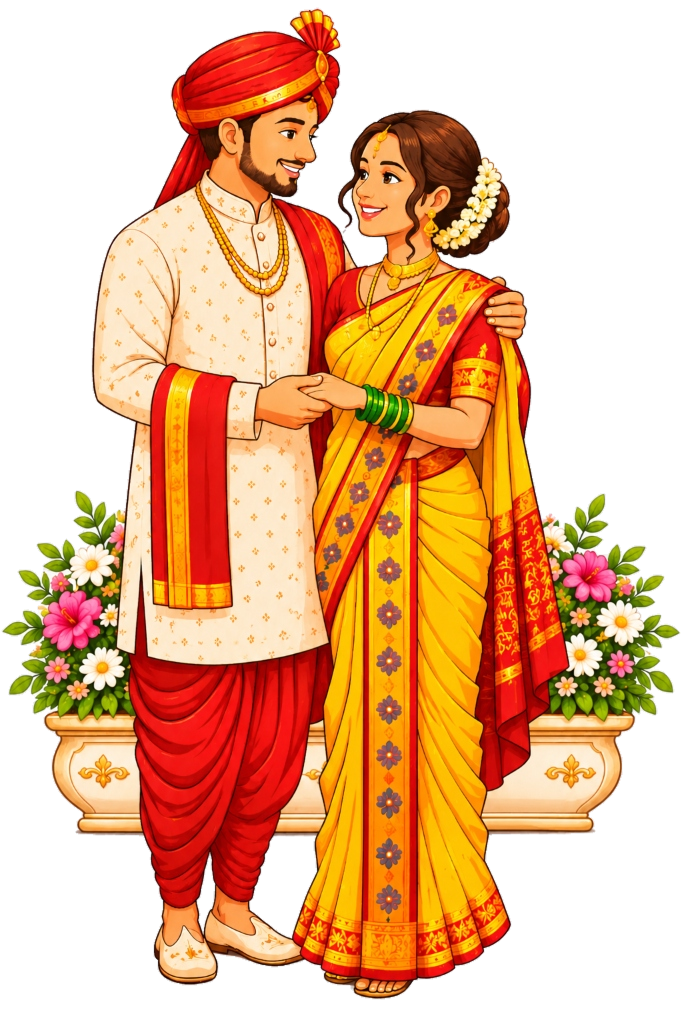
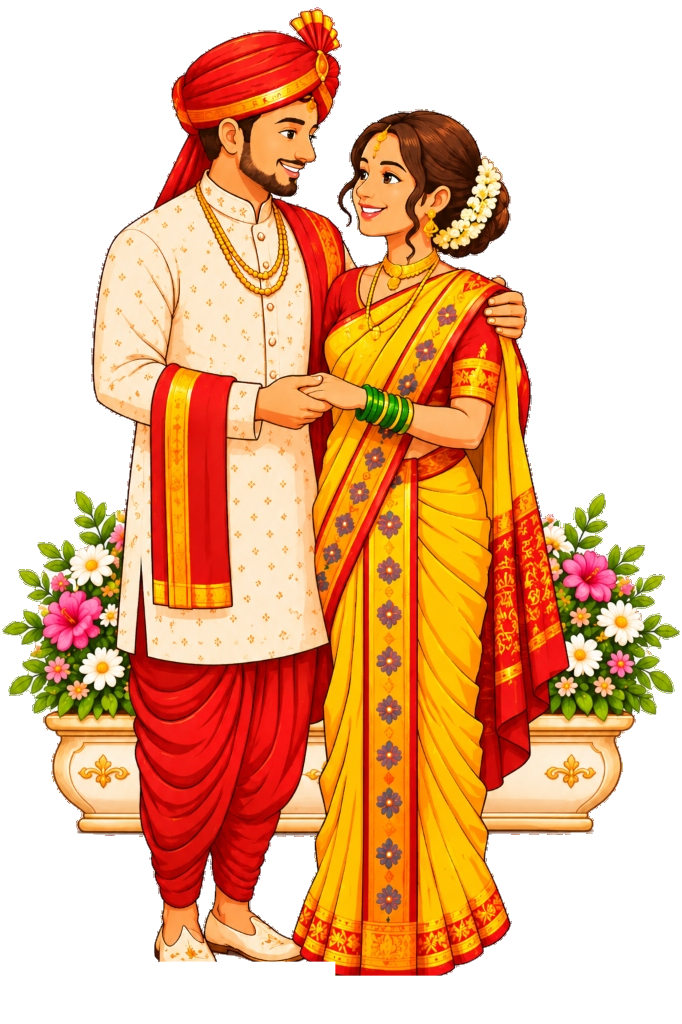
optimize

diff --git a/css/style.css b/css/style.css
@@ -100,7 +100,7 @@ button { cursor: pointer; border: none; background: none; font-family: var(--ser
 
 .couple-card { width: clamp(260px, 70cqw, 350px); max-height: clamp(330px, 50vh, 450px); margin: 0 auto; display: flex; justify-content: center; align-items: center; flex-shrink: 1; position: relative; }
 .couple-card picture { display: contents; }
-.couple-art { width: auto; max-width: 100%; max-height: clamp(330px, 50vh, 450px); height: auto; object-fit: contain; display: block; filter: drop-shadow(0 10px 24px rgba(36, 21, 13, 0.2)); -webkit-mask-image: linear-gradient(to bottom, #000 0%, #000 90%, rgba(0, 0, 0, 0.75) 95%, rgba(0, 0, 0, 0.25) 98%, transparent 100%); mask-image: linear-gradient(to bottom, #000 0%, #000 90%, rgba(0, 0, 0, 0.75) 95%, rgba(0, 0, 0, 0.25) 98%, transparent 100%); }
+.couple-art { width: auto; max-width: 100%; max-height: clamp(330px, 50vh, 450px); height: auto; object-fit: contain; display: block; filter: none; -webkit-mask-image: none; mask-image: none; }
 
 .enter-ceremony-btn { position: absolute; bottom: clamp(2.8rem, 8.5vh, 4.2rem); left: 50%; transform: translateX(-50%); display: inline-flex; align-items: center; justify-content: center; text-align: center; line-height: 1; padding: 0.65rem 1.95rem 0.60rem; background: linear-gradient(135deg, rgba(255, 252, 247, 0.96) 0%, rgba(248, 239, 224, 0.92) 100%); backdrop-filter: blur(10px); -webkit-backdrop-filter: blur(10px); border: 1.5px solid #C9A048; border-radius: 999px; box-shadow: 0 4px 18px rgba(124, 88, 26, 0.22), 0 0 0 1px rgba(255, 255, 255, 0.75) inset; color: #631622; font-family: 'Noto Serif Devanagari', 'Yatra One', var(--deva); font-size: clamp(0.94rem, 3.4cqw, 1.10rem); font-weight: 700; letter-spacing: 0.03em; text-transform: none; cursor: pointer; z-index: 50; pointer-events: auto !important; white-space: nowrap; animation: enterBtnPulse 2.8s ease-in-out infinite; transition: transform 0.25s ease, background 0.25s ease, box-shadow 0.25s ease, border-color 0.25s ease, color 0.25s ease; text-shadow: 0 1px 1px rgba(255, 255, 255, 0.9); }
 .enter-btn-text { display: inline-flex; align-items: center; justify-content: center; text-align: center; line-height: 1; transform: translateY(2.5px); }
@@ -138,7 +138,8 @@ button { cursor: pointer; border: none; background: none; font-family: var(--ser
 .eyebrow { font-size: clamp(.78rem, 3.0cqw, .92rem); letter-spacing: .24em; text-transform: uppercase; color: #9C7330; font-weight: 600; text-shadow: 0 1px 1px rgba(255, 255, 255, 0.95); }
 .eyebrow.devanagari { font-family: 'Noto Serif Devanagari', var(--deva); font-size: clamp(0.95rem, 3.4cqw, 1.12rem); letter-spacing: 0.03em; text-transform: none; font-weight: 700; color: #966D26; }
 .hero-eyebrow { font-family: var(--cinzel); font-size: clamp(.80rem, 3.3cqw, 1.00rem); letter-spacing: .18em; text-transform: uppercase; color: #966D26; font-weight: 600; line-height: 1.5; text-shadow: 0 1px 1px rgba(255, 255, 255, 0.95); margin: 0.05rem 0 0.35rem; }
-.hero-eyebrow.devanagari { font-family: 'Noto Serif Devanagari', var(--deva); font-size: clamp(1.10rem, 4.2cqw, 1.35rem); letter-spacing: 0.04em; text-transform: none; font-weight: 600; color: #8A5E1E; margin-bottom: 0.5rem; }
+.hero-eyebrow.devanagari { font-family: 'Noto Serif Devanagari', 'Tiro Devanagari Marathi', var(--deva); font-size: clamp(0.82rem, 3.2cqw, 1.05rem); letter-spacing: 0.015em; text-transform: none; font-weight: 600; color: #8A5E1E; margin-bottom: 0.45rem; width: 100%; max-width: 100%; display: flex; flex-direction: column; align-items: center; }
+.hero-eyebrow.devanagari .eyebrow-line { display: block; white-space: nowrap; line-height: 1.6; text-align: center; }
 
 .hero-names { font-family: var(--serif); font-size: clamp(2.9rem, 13.0cqw, 4.5rem); letter-spacing: .01em; color: #631622; font-weight: 600; line-height: 1.05; margin: 0.2rem 0 0.45rem; display: flex; flex-direction: column; align-items: center; text-shadow: 0 1px 2px rgba(255, 255, 255, 0.95); }
 .hero-names.devanagari { font-family: 'Noto Serif Devanagari', 'Tiro Devanagari Marathi', serif; font-size: clamp(2.05rem, 8.0cqw, 3.00rem); font-weight: 800; line-height: 1.25; letter-spacing: 0 !important; text-rendering: optimizeLegibility; font-feature-settings: "kern" 1, "liga" 1, "clig" 1; margin: 0.65rem 0; display: flex; flex-direction: column; align-items: center; justify-content: center; }
@@ -253,10 +254,11 @@ button { cursor: pointer; border: none; background: none; font-family: var(--ser
   .shloka-box { height: auto !important; min-height: 2.5rem !important; margin: 0.08rem auto 0.15rem !important; }
   .shloka-text { height: 1.45em !important; font-size: clamp(0.82rem, 3.2vw, 0.94rem) !important; line-height: 1.5 !important; white-space: nowrap !important; }
   .couple-card { width: clamp(270px, 84vw, 360px) !important; max-width: 92% !important; max-height: clamp(330px, 53vh, 450px) !important; margin: 0.55rem auto 0 !important; transform: translateY(clamp(8px, 2.0vh, 16px)) !important; }
-  .couple-card .couple-art { width: auto !important; max-width: 100% !important; max-height: clamp(330px, 53vh, 450px) !important; height: auto !important; -webkit-mask-image: linear-gradient(to bottom, #000 0%, #000 88%, rgba(0, 0, 0, 0.75) 94%, rgba(0, 0, 0, 0.25) 98%, transparent 100%) !important; mask-image: linear-gradient(to bottom, #000 0%, #000 88%, rgba(0, 0, 0, 0.75) 94%, rgba(0, 0, 0, 0.25) 98%, transparent 100%) !important; }
+  .couple-card .couple-art { width: auto !important; max-width: 100% !important; max-height: clamp(330px, 53vh, 450px) !important; height: auto !important; filter: none !important; -webkit-mask-image: none !important; mask-image: none !important; }
   .scroll-cue-btn { bottom: 0.45rem !important; font-size: clamp(0.82rem, 3.2vw, 0.92rem) !important; white-space: nowrap !important; letter-spacing: 0.02em !important; z-index: 15 !important; text-shadow: 0 1px 3px rgba(255, 255, 255, 0.95), 0 0 10px rgba(255, 255, 255, 0.9) !important; }
   .crest-shree { font-size: 1.02rem !important; }
-  .hero-eyebrow.devanagari { font-size: clamp(1.02rem, 3.8vw, 1.18rem) !important; letter-spacing: 0.03em !important; line-height: 1.5 !important; }
+  .hero-eyebrow.devanagari { font-size: clamp(0.72rem, 3.25vw, 0.90rem) !important; letter-spacing: 0.01em !important; line-height: 1.55 !important; width: 100% !important; max-width: 100% !important; }
+  .hero-eyebrow.devanagari .eyebrow-line { display: block !important; white-space: nowrap !important; text-align: center !important; }
   .hero-calligraphy-wrap { margin: 0.25rem 0 0.45rem !important; }
   .hero-calligraphy-img { max-width: clamp(180px, 56vw, 235px) !important; }
   .hero-names.devanagari { font-size: clamp(1.85rem, 7vw, 2.35rem) !important; line-height: 1.25 !important; letter-spacing: 0 !important; display: flex !important; flex-direction: column !important; align-items: center !important; }
@@ -289,7 +291,8 @@ button { cursor: pointer; border: none; background: none; font-family: var(--ser
   .date-clean-box { padding: 0.40rem 1.5rem !important; }
   .date-clean-text { font-size: 1.05rem !important; }
   .couple-card { max-height: clamp(295px, 48vh, 350px) !important; width: min(285px, 86vw) !important; margin: 0.45rem auto 0 !important; transform: translateY(clamp(6px, 1.6vh, 12px)) !important; }
-  .couple-card .couple-art { max-height: clamp(295px, 48vh, 350px) !important; -webkit-mask-image: linear-gradient(to bottom, #000 0%, #000 88%, rgba(0, 0, 0, 0.75) 94%, rgba(0, 0, 0, 0.25) 98%, transparent 100%) !important; mask-image: linear-gradient(to bottom, #000 0%, #000 88%, rgba(0, 0, 0, 0.75) 94%, rgba(0, 0, 0, 0.25) 98%, transparent 100%) !important; }
+  .couple-card .couple-art { max-height: clamp(295px, 48vh, 350px) !important; filter: none !important; -webkit-mask-image: none !important; mask-image: none !important; }
+  .hero-eyebrow.devanagari { font-size: clamp(0.68rem, 3.1vw, 0.82rem) !important; }
 }
 
 @media (min-width: 601px) {
@@ -308,7 +311,7 @@ button { cursor: pointer; border: none; background: none; font-family: var(--ser
   .enter-ceremony-btn { bottom: 3.4rem; padding: 0.62rem 1.75rem 0.58rem; font-size: 1.00rem; white-space: nowrap; letter-spacing: 0.03em; display: inline-flex; align-items: center; justify-content: center; line-height: 1; }
   .stage-landing { justify-content: center !important; padding: 0.8rem 1.6rem 2.0rem !important; }
   .couple-card { width: clamp(270px, 72cqw, 360px) !important; max-height: clamp(350px, 50vh, 460px) !important; margin: 0.25rem auto 0.4rem !important; transform: none !important; }
-  .couple-card .couple-art { width: auto !important; max-width: 100% !important; max-height: clamp(350px, 50vh, 460px) !important; height: auto !important; -webkit-mask-image: none !important; mask-image: none !important; }
+  .couple-card .couple-art { width: auto !important; max-width: 100% !important; max-height: clamp(350px, 50vh, 460px) !important; height: auto !important; filter: none !important; -webkit-mask-image: none !important; mask-image: none !important; }
   .ganpati-icon { width: clamp(96px, 28cqw, 142px); }
   .ganpati-title { font-size: clamp(1.15rem, 4.2cqw, 1.35rem); }
   .lotus-divider { width: clamp(115px, 34cqw, 160px); }

diff --git a/index.html b/index.html
@@ -17,9 +17,9 @@
   <link rel="preload" as="image" href="assets/couple-calligraphy-sec3.webp?v=3" type="image/webp">
   <link rel="preload" as="image" href="https://ik.imagekit.io/greenspire/invitation/main-bg.avif" fetchpriority="high">
   <link rel="preload" as="image" href="https://ik.imagekit.io/greenspire/invitation/ganpati-logo.avif">
-  <link rel="preload" as="image" href="assets/couple.webp?v=1" type="image/webp">
+  <link rel="preload" as="image" href="assets/couple.webp?v=2" type="image/webp">
   <link href="https://fonts.googleapis.com/css2?family=Cinzel:wght@400;600;700;800&family=Cormorant+Garamond:ital,wght@0,400;0,600;0,700;1,400&family=Eczar:wght@700;800&family=Great+Vibes&family=Italianno&family=Kalam:wght@700&family=Martel:wght@700;800;900&family=Noto+Serif+Devanagari:wght@400;600;700;800;900&family=Rozha+One&family=Tiro+Devanagari+Marathi:ital@0;1&family=Yatra+One&display=block" rel="stylesheet">
-  <link rel="stylesheet" href="css/style.css?v=167">
+  <link rel="stylesheet" href="css/style.css?v=168">
 
   <style>
     .stage-cover:not(.is-revealed) .cover-content,
@@ -56,7 +56,7 @@
 
             <div class="cover-tagline-text devanagari">
               <p>आयुष्याच्या नव्या पर्वाला सुरुवात करताना,</p>
-              <p>आपल्या स्नेहपूर्ण उपस्थितीने व शुभाशीर्वादांनी</p>
+              <p>आपल्या स्नेहपूर्ण उपस्थितीने व शुभाशिर्वादांनी</p>
               <p>हा मंगल सोहळा अधिक संस्मरणीय करावा, ही नम्र विनंती.</p>
             </div>
 
@@ -71,7 +71,7 @@
           </div>
         </div>
 
-        <div class="stage-view stage-landing" id="stageLanding" aria-label="मंगलमय आशीर्वाद व वधू-वर">
+        <div class="stage-view stage-landing" id="stageLanding" aria-label="मंगलमय आशिर्वाद व वधू-वर">
           <div class="landing-content" id="landingContent">
 
             <div class="ganpati-crest">
@@ -93,8 +93,8 @@
 
             <div class="couple-card">
               <picture>
-                <source srcset="assets/couple.webp?v=1" type="image/webp">
-                <img src="assets/couple.png?v=1" alt="गौरव आणि स्वरदा" class="couple-art" width="682" height="1024" loading="eager" decoding="async">
+                <source srcset="assets/couple.webp?v=2" type="image/webp">
+                <img src="assets/couple.png?v=2" alt="गौरव आणि स्वरदा" class="couple-art" width="682" height="1024" loading="eager" decoding="async">
               </picture>
             </div>
           </div>
@@ -138,8 +138,8 @@
 
             <div class="invitation-section devanagari" id="blockHero">
               <p class="hero-eyebrow devanagari">
-                ईश्वराच्या कृपेने आणि आपणा सर्वांच्या प्रेमळ आशीर्वादाने<br>
-                आमच्या कुटुंबात एका नव्या आनंदपर्वाची सुरुवात होत आहे.
+                <span class="eyebrow-line">ईश्वराच्या कृपेने आणि आपणा सर्वांच्या प्रेमळ आशिर्वादाने</span>
+                <span class="eyebrow-line">आमच्या कुटुंबात एका नव्या आनंदपर्वाची सुरुवात होत आहे.</span>
               </p>
               <div class="hero-names hero-calligraphy-wrap" role="heading" aria-level="2">
                 <picture class="hero-calligraphy-picture">
@@ -148,7 +148,7 @@
                 </picture>
                 <span class="sr-only">चि. गौरव व चि. सौ. कां. स्वरदा</span>
               </div>
-              <p class="hero-line devanagari">यांच्या शुभविवाहाच्या या मंगल सोहळ्यास आपण सहकुटुंब उपस्थित राहून नवदांपत्यास आपले शुभाशीर्वाद द्यावेत आणि त्यांच्या भावी आयुष्यासाठी शुभेच्छा व्यक्त कराव्यात, ही सप्रेम विनंती.</p>
+              <p class="hero-line devanagari">यांच्या शुभविवाहाच्या या मंगल सोहळ्यास आपण सहकुटुंब उपस्थित राहून नवदांपत्यास आपले शुभाशिर्वाद द्यावेत आणि त्यांच्या भावी आयुष्यासाठी शुभेच्छा व्यक्त कराव्यात, ही सप्रेम विनंती.</p>
               <h3 class="ceremony-title devanagari">॥ शुभविवाह सोहळा ॥</h3>
             </div>
 
@@ -250,7 +250,7 @@
             </div>
 
             <div class="invitation-closing devanagari">
-              <p class="closing-warm devanagari">आपल्या स्नेहपूर्ण उपस्थितीने आमचा आनंद द्विगुणित होईल. या मंगलप्रसंगी आपण सहकुटुंब उपस्थित राहून नवदांपत्यास शुभाशीर्वाद द्यावेत, ही नम्र विनंती.</p>
+              <p class="closing-warm devanagari">आपल्या स्नेहपूर्ण उपस्थितीने आमचा आनंद द्विगुणित होईल. या मंगलप्रसंगी आपण सहकुटुंब उपस्थित राहून नवदांपत्यास शुभाशिर्वाद द्यावेत, ही नम्र विनंती.</p>
               <p class="closing-signature devanagari">गौरव व स्वरदा</p>
               <div class="closing-flourish" aria-hidden="true">
                 <img src="assets/heart-flourish.svg?v=1" alt="शुभविवाह प्रतीक" class="closing-flourish-img" width="320" height="80" loading="lazy" decoding="async">

diff --git a/js/config.js b/js/config.js
@@ -47,7 +47,7 @@ const WEDDING_CONFIG = {
       location: "D' Rajwada Resort & Banquet Hall, Boisar",
       dressCode: "पारंपरिक पोशाख",
       colors: ["#631622", "#D4AF37", "#FAF7F2", "#8B1E2F"],
-      desc: "पवित्र मंगलाष्टके, सप्तपदी आणि नवदांपत्यास शुभाशीर्वाद."
+      desc: "पवित्र मंगलाष्टके, सप्तपदी आणि नवदांपत्यास शुभाशिर्वाद."
     },
     {
       title: "स्नेहभोजन",
